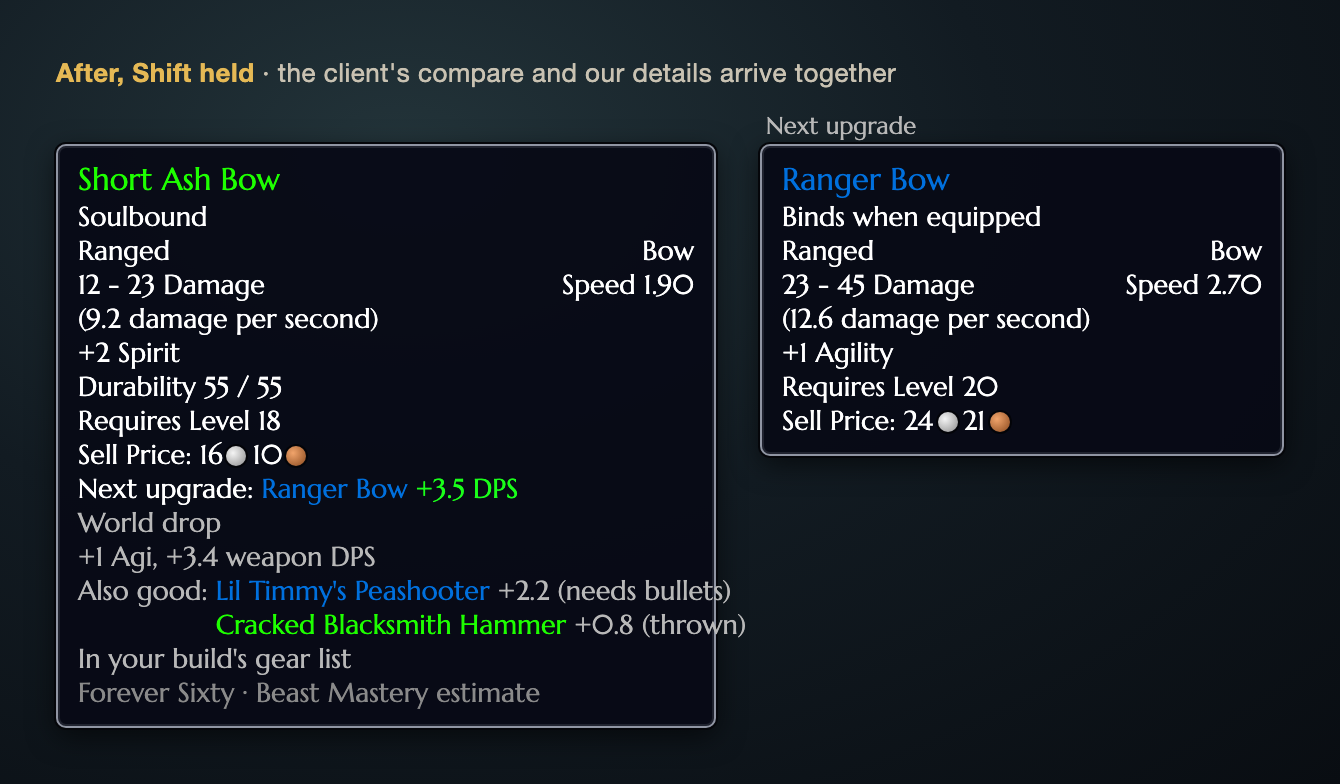
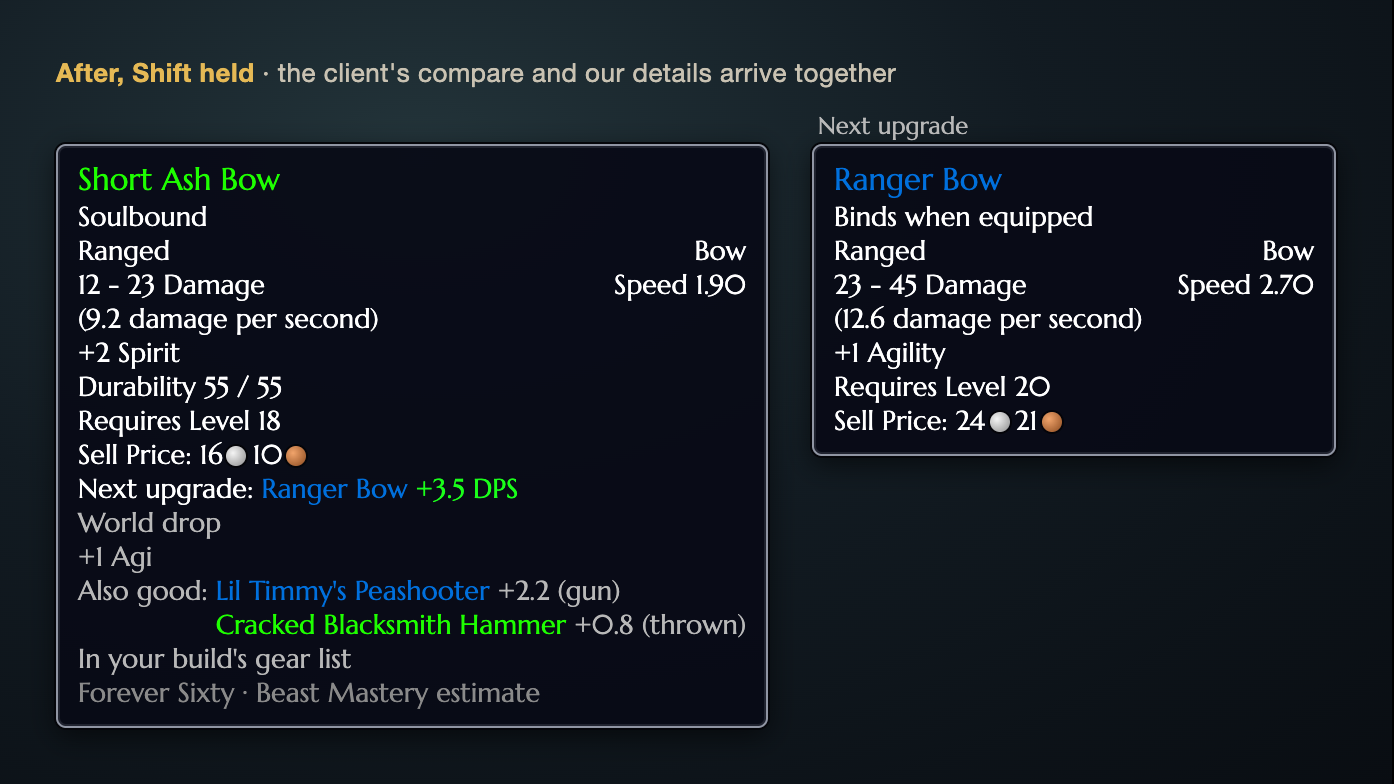
fix(addon): ranged type in the game's words, no weapon DPS beside the headline
Owner notes on the Shift mock (2026-11-08):
- a ranged item of another type than the worn one is named by its type,
  (gun), (bow), (crossbow), (thrown), (wand), never by what it implies;
  the needs-bullets and needs-arrows strings are gone
- the breakdown lists the stats that change and never the weapon's own
  DPS, which read as the +3.5 DPS headline twice
- the Shift mock grows to its widest line; spec 2.3 says so

Claude-Session: https://claude.ai/code/session_01Wrtayzxz2jvhjren4pWihn

diff --git a/design/mocks/addon_ux.py b/design/mocks/addon_ux.py
@@ -265,8 +265,10 @@ def verdict_next(item_id, gain, source):
 def shift_block_bow():
     g = C['grey']
     return [
-        l('+1 Agi, +3.4 weapon DPS', color=g),
-        l(f'Also good: {iname(13136)} +2.2 (needs bullets)', color=g),
+        # Stat changes only: the weapon's own DPS beside the +3.5 headline read as the same number twice
+        # (owner, 2026-11-08); the type in the game's words, never what it implies.
+        l('+1 Agi', color=g),
+        l(f'Also good: {iname(13136)} +2.2 (gun)', color=g),
         l(f'<span style="visibility:hidden">Also good: </span>{iname(285279)} +0.8 (thrown)', color=g),
         l('In your build\'s gear list', color=g),
         l('Forever Sixty · Beast Mastery estimate', color='#8a8a8a'),
@@ -285,7 +287,8 @@ def board_item_after_shift():
     lines = short_ash_bow() + verdict_next(3021, '3.5', 'World drop') + shift_block_bow()
     compare = tooltip(ranger_bow(), tag='Next upgrade', width=262)
     body = (f'<p class="cap"><b>After, Shift held</b> · the client\'s compare and our details arrive together</p>'
-            f'<div class="row" style="padding-top:18px">{tooltip(lines, width=330)}{compare}</div>')
+            # No fixed width: the client's tooltip grows to its widest line, so no line crosses the border.
+            f'<div class="row" style="padding-top:18px">{tooltip(lines)}{compare}</div>')
     return page(body)
 
 

diff --git a/design/specs/2026-11-08-addon-ux.md b/design/specs/2026-11-08-addon-ux.md
@@ -46,7 +46,7 @@ Today the addon adds a blank row, then a header, then up to ten lines in five co
 | `Planned for <spec> at <band>` / `Planned for your build` | `Planned for your build` | **merge/Shift**: when the hovered item is the band's pick it becomes the gold `Your best in slot until level 30`; a build-list item says `In your build's gear list` under Shift | The gold plan line competed with the verdict and, on the worn bow, sat between a gain and that gain's source. |
 | Source `World drop · check the AH`, `<instance> · <boss> · 30% drop` | | **keep** as the support line under a next upgrade; `check the AH` is **cut** | Where to get it is half the answer; the advice was filler. |
 | `Also good:` with up to two alternatives | | **Shift** | Tenet 4 asks that a runner-up is shown, not hidden, where it is the point. On a hover, the point is the one best answer; the runners-up stay one key away and in full on the panel and the site. |
-| `(needs bullets)`, `(thrown)` ammo tags | | **Shift**, with their alternative | They belong to the alternative. |
+| `(needs bullets)`, `(thrown)` ammo tags | | **Shift**, with their alternative, as the type in the game's words: `(gun)`, `(bow)`, `(crossbow)`, `(thrown)`, `(wand)` | They belong to the alternative. Owner, 2026-11-08: name the type, never explain what it implies (no "needs bullets"). |
 | `Hit capped: more is wasted` | | **Shift**, except when the hovered item is otherwise an upgrade by stats the cap wastes: then the cap line replaces the support line | Rarely relevant; when it is, it changes the answer. |
 | `(enchant not counted)` | | **Shift** | A caveat on a figure. |
 | `Not for you until 40: plate armor` / `Not for you: shamans cannot dual wield` | | **keep**, shortened: `Not for you until level 40` / `Not for shamans`, grey | The client's own red line already names the armor type or skill. |
@@ -179,7 +179,7 @@ Precedence top to bottom; the first that applies is the verdict. `N` is the next
 | 13 | Not worn, gain ≤ −1.0 | `Downgrade −1.3 DPS` (grey) | none | breakdown |
 | 14 | Not worn, scored nothing by the weights, no pick | `Not for your build` (grey) | none | attribution |
 | 15 | Worn, a bag item beats it (the slot has the arrow) | arrow `In your bags: <item> +3.5 DPS` (white, item quality, gain green) | none | breakdown of the bag item |
-| 16 | Worn, a next upgrade gains ≥ 1.0 | `Next upgrade: <item> +3.5 DPS` (white, item quality, gain green) | the source, `World drop`, `The Deadmines · Captain Greenskin · 30% drop` (grey) | breakdown, alternatives with ammo tags, `In your build's gear list`, enchant note, attribution |
+| 16 | Worn, a next upgrade gains ≥ 1.0 | `Next upgrade: <item> +3.5 DPS` (white, item quality, gain green) | the source, `World drop`, `The Deadmines · Captain Greenskin · 30% drop` (grey) | breakdown, alternatives with type tags, `In your build's gear list`, enchant note, attribution |
 | 17 | Worn, a weapon pick whose stats the client has not sent | `Next upgrade: <item>` with no figure | source | |
 | 18 | Worn, it is the pick | `Your best in slot` (gold) | `At level N: <next band's pick>` (grey); none in the top band | the next pick's source and gain, attribution |
 | 19 | Worn, the pick gains under the floor | `No upgrade until level N` (white); top band `No upgrade for this slot` | `At level N: <pick>` (grey) | the pick's `+0.4 DPS`, attribution |
@@ -197,8 +197,8 @@ Unit: DPS for damage specs, HPS for healers, `score` for specs with neither (tan
 
 Appended under the support line, all grey unless named:
 
-1. The figure's breakdown, every stat that moves including Stamina and Armor: `+7 Agi, +2 Sta, +6 Armor` or `+1 Agi, +3.4 weapon DPS` (no brackets). Armor and Stamina are listed even though the weights price them at nothing for a damage spec, so a leveller sees what the swap costs in survival.
-2. Alternatives, at most two, one per line: `Also good: <item> +2.2 (needs bullets)`, the second aligned under the first item name. `(thrown)` marks a thrown weapon in the ranged slot (item subclass 16, e.g. Cracked Blacksmith Hammer, inventory type 25 in the 1.60 data).
+1. The figure's breakdown, every stat that moves including Stamina and Armor: `+7 Agi, +2 Sta, +6 Armor` or `+1 Agi` (no brackets). A weapon's own DPS is never listed (owner, 2026-11-08): `+3.4 weapon DPS` under a `+3.5 DPS` headline read as one number twice. Armor and Stamina are listed even though the weights price them at nothing for a damage spec, so a leveller sees what the swap costs in survival.
+2. Alternatives, at most two, one per line: `Also good: <item> +2.2 (gun)`, the second aligned under the first item name; a row never crosses the tooltip's border (it shortens the name to the client's own widest line). A ranged item whose type differs from the worn one carries its type in the game's words, `(gun)`, `(bow)`, `(crossbow)`, `(thrown)`, `(wand)`, on alternatives and on the Next line alike; `(thrown)` marks a thrown weapon in the ranged slot (item subclass 16, e.g. Cracked Blacksmith Hammer, inventory type 25 in the 1.60 data).
 3. `In your build's gear list` when the loaded build lists the item.
 4. A cap: `Hit capped: more is wasted`.
 5. `Enchant not counted` when the worn enchant could not be read.
